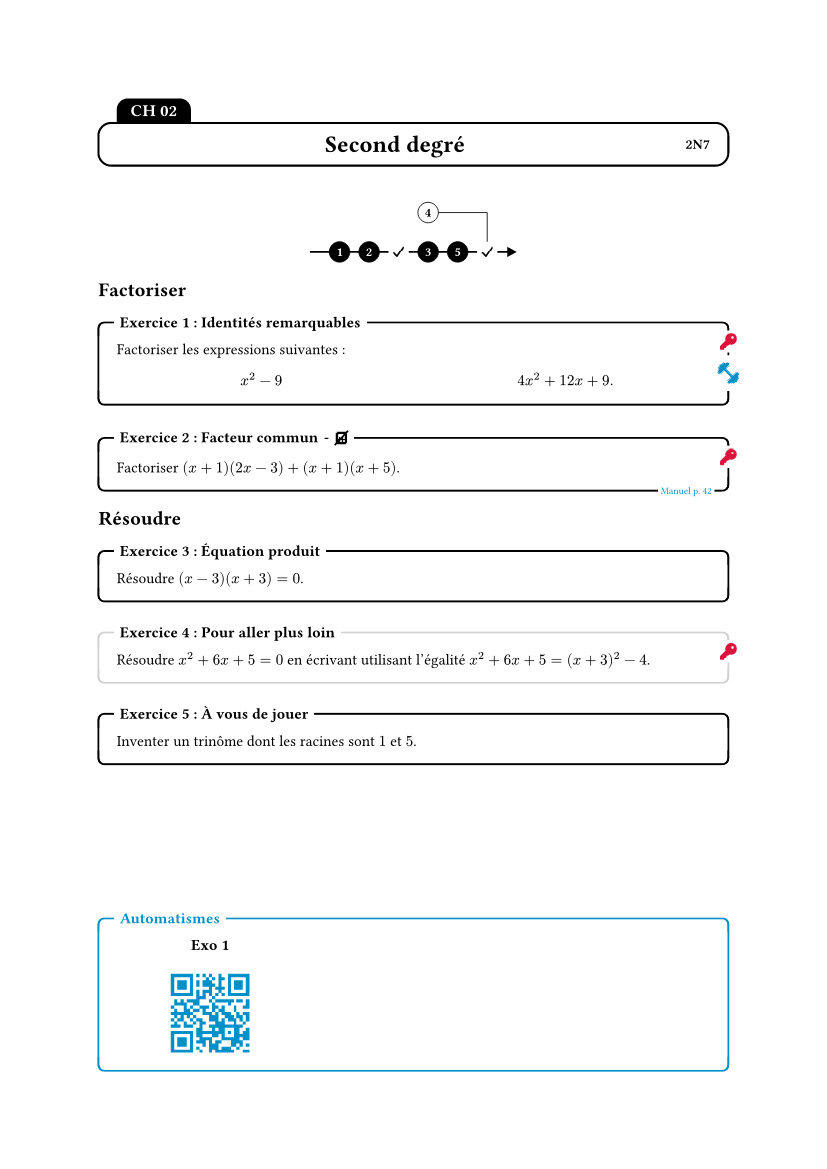
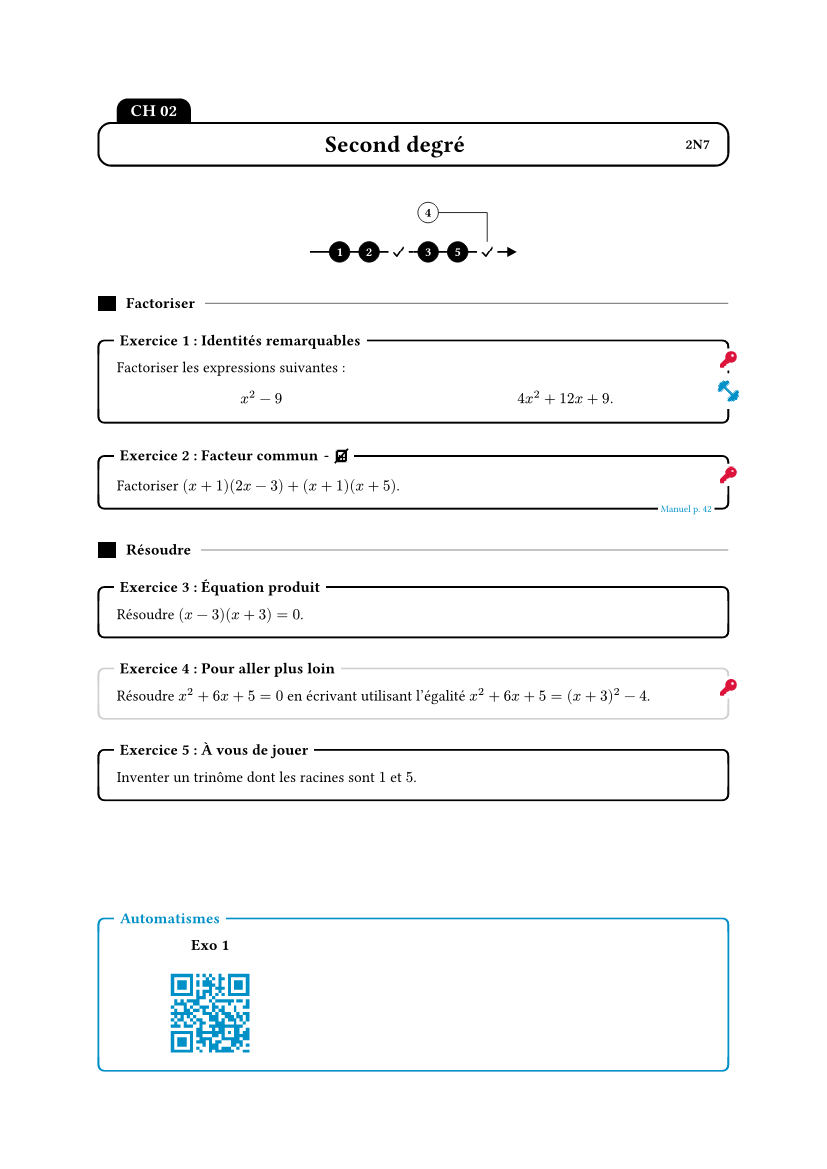
thematique : présentée comme le filet-horizontal des cours
Barre noire, titre en gras, trait gris jusqu'à la marge. Le paramètre
style-thematique ("titre", "bandeau") est supprimé ; couleur-thematique
règle la couleur du trait.

Changed region(s): [[0.0907, 0.2464, 0.9069, 0.6775]]

diff --git a/CHANGELOG.md b/CHANGELOG.md
@@ -2,10 +2,10 @@
 
 ## 0.3.0
 
-- `style-thematique: "bandeau"` (paramètre de `maquette`) : la `#thematique`
-  est écrite dans un bandeau coloré sur toute la largeur (`"titre"`, texte
-  seul, reste le défaut). La couleur se règle avec `couleur-thematique`
-  (couleur du fond pour le bandeau, du texte sinon).
+- `#thematique` est présentée comme un filet : petite barre noire, titre en
+  gras à la taille du texte, trait gris jusqu'à la marge (auparavant, titre
+  seul en 14 pt). `couleur-thematique` (paramètre de `maquette`) règle la
+  couleur du trait ; `alignement` fait glisser le titre le long du trait.
 - `position-qr: "thematique"` (paramètre de `maquette`) : les QR-Codes
   s'affichent à la fin de chaque `#thematique`, dans un bloc « Automatismes —
   <thématique> », au lieu d'un seul bloc en fin de fiche (`"fin"`, défaut).
